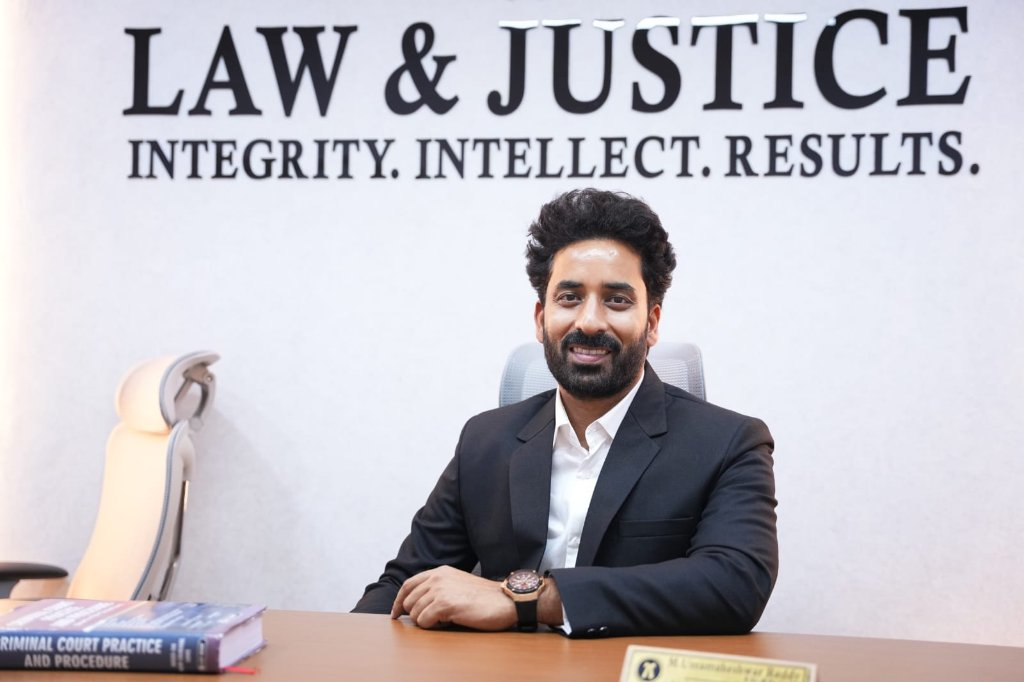
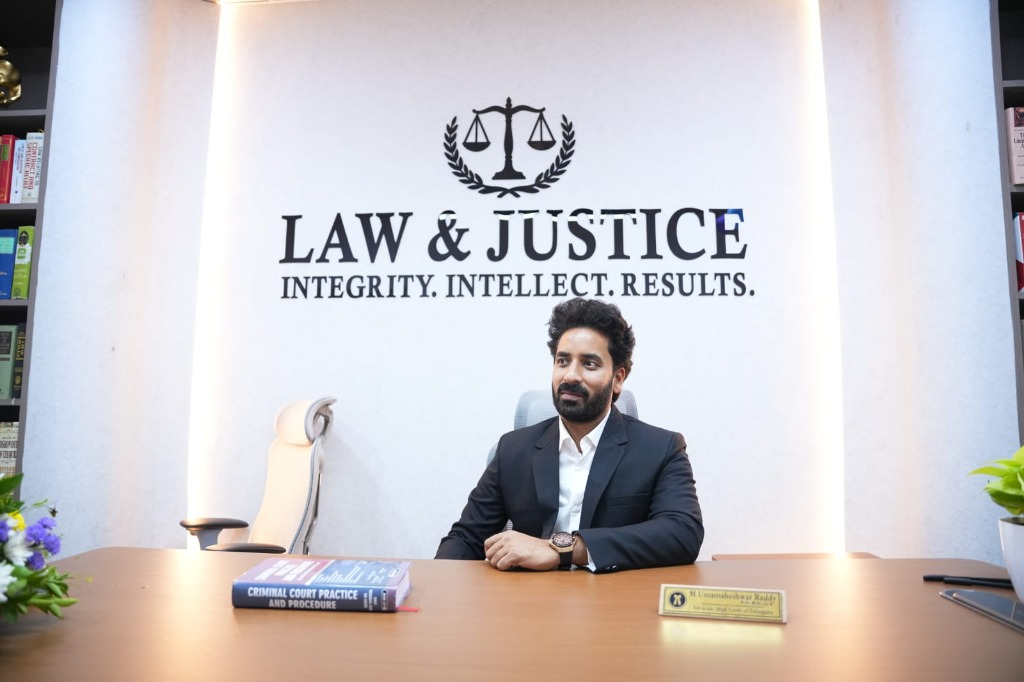
Update About section desk photo with Advocate Umamaheshwar Reddy chamber portrait

diff --git a/components/About.tsx b/components/About.tsx
@@ -87,7 +87,7 @@ export default function About() {
                       alt="UK Law Associates Advocate at Law & Justice Chambers"
                       fill
                       sizes="(max-width: 768px) 50vw, 270px"
-                      className="object-cover object-top group-hover:scale-108 transition-transform duration-700 ease-out"
+                      className="object-cover object-[54%_center] group-hover:scale-108 transition-transform duration-700 ease-out"
                       priority
                     />
                     <div className="absolute inset-0 bg-gradient-to-t from-black/20 via-transparent to-transparent group-hover:opacity-40 transition-opacity" />

diff --git a/app/about/page.tsx b/app/about/page.tsx
@@ -137,7 +137,7 @@ export default function AboutPage() {
                         alt="UK Law Associates Advocate at Law & Justice Chambers"
                         fill
                         sizes="(max-width: 768px) 50vw, 270px"
-                        className="object-cover object-top group-hover:scale-105 transition-transform duration-700"
+                        className="object-cover object-[54%_center] group-hover:scale-105 transition-transform duration-700"
                         priority
                       />
                     </div>
